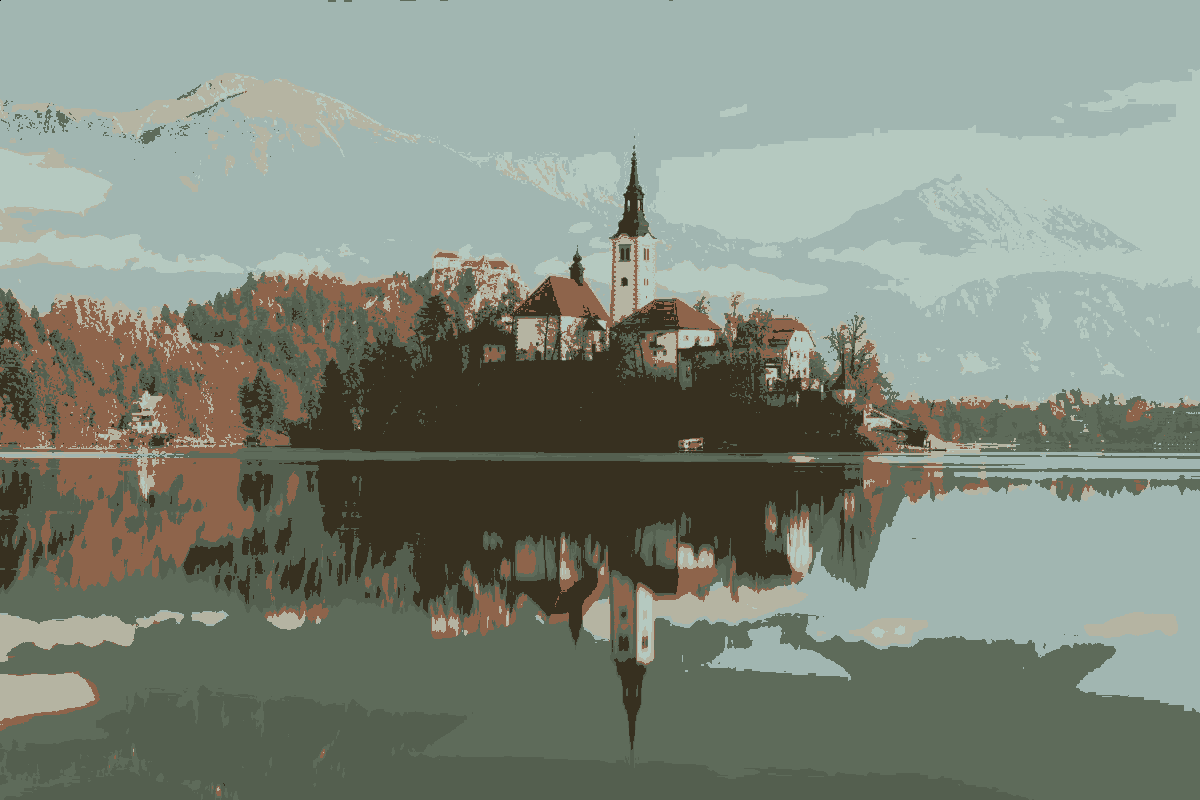
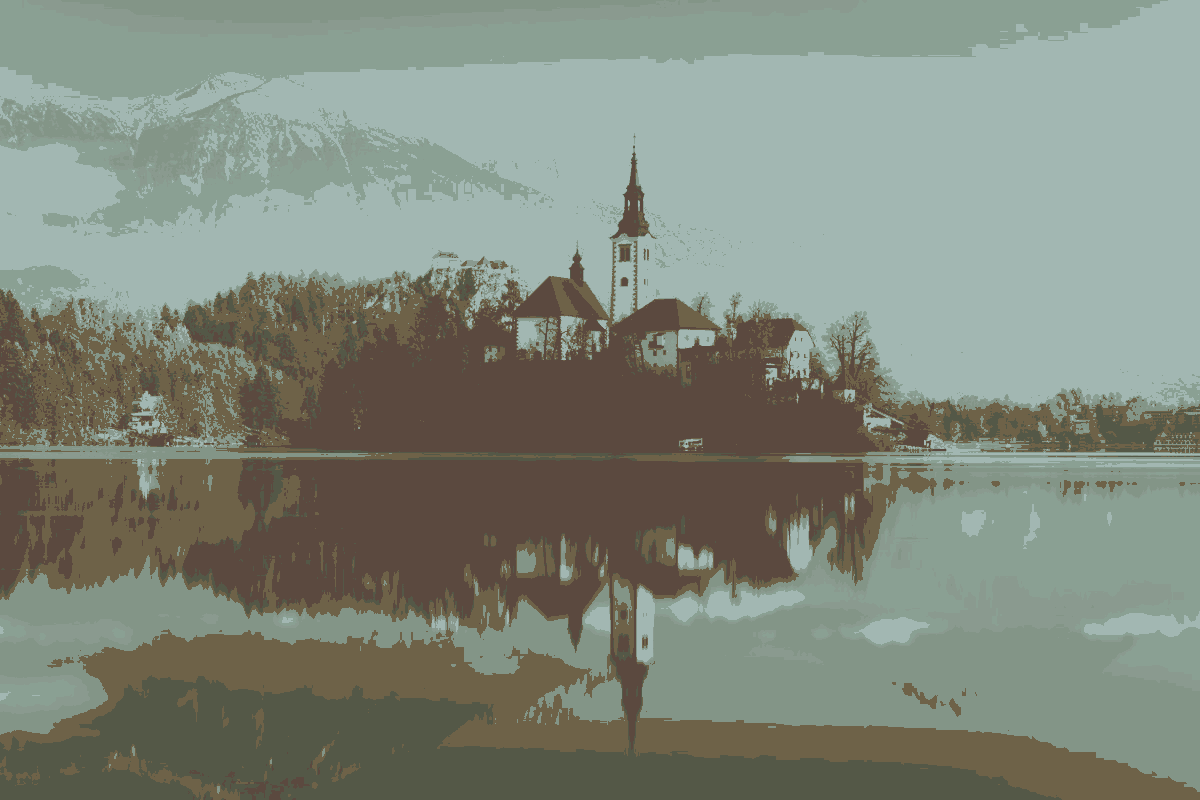
Work on textures instead

diff --git a/src/main.rs b/src/main.rs
@@ -1,22 +1,21 @@
 use std::{mem::size_of, vec};
 
 use anyhow::Result;
-use image::{ImageBuffer, Rgb};
+use image::{ImageBuffer, Rgba};
 use pollster::FutureExt;
 use rand::Rng;
 use wgpu::{
-    util::DeviceExt, BindGroupDescriptor, BindGroupEntry, BufferAddress, BufferDescriptor,
-    BufferUsages,
+    util::DeviceExt, BindGroupDescriptor, BindGroupEntry, BindingResource, BufferAddress,
+    BufferDescriptor, BufferUsages, TextureViewDescriptor,
 };
 
 fn main() -> Result<()> {
-    let image = image::load_from_memory(include_bytes!("landscape_small.jpg"))?.to_rgb8();
+    let image = image::load_from_memory(include_bytes!("landscape_small.jpg"))?.to_rgba8();
 
     let (width, height) = image.dimensions();
 
     let k = 7;
 
-    let pixels = pixels(&image);
     let centroids = init_centroids(&image, k);
 
     println!("Setting up compute");
@@ -34,29 +33,53 @@ fn main() -> Result<()> {
         .request_device(&Default::default(), None)
         .block_on()?;
 
-    let pixel_buffer = device.create_buffer_init(&wgpu::util::BufferInitDescriptor {
-        label: None,
-        contents: bytemuck::cast_slice(&pixels),
-        usage: BufferUsages::STORAGE | BufferUsages::COPY_DST,
+    let texture_size = wgpu::Extent3d {
+        width,
+        height,
+        depth_or_array_layers: 1,
+    };
+
+    let input_texture = device.create_texture(&wgpu::TextureDescriptor {
+        label: Some("input texture"),
+        size: texture_size,
+        mip_level_count: 1,
+        sample_count: 1,
+        dimension: wgpu::TextureDimension::D2,
+        format: wgpu::TextureFormat::Rgba8Unorm,
+        usage: wgpu::TextureUsages::TEXTURE_BINDING | wgpu::TextureUsages::COPY_DST,
     });
+    queue.write_texture(
+        input_texture.as_image_copy(),
+        bytemuck::cast_slice(image.as_raw()),
+        wgpu::ImageDataLayout {
+            offset: 0,
+            bytes_per_row: std::num::NonZeroU32::new(4 * width),
+            rows_per_image: None, // Doesn't need to be specified as we are writing a single image.
+        },
+        texture_size,
+    );
+
+    let output_texture = device.create_texture(&wgpu::TextureDescriptor {
+        label: Some("output texture"),
+        size: texture_size,
+        mip_level_count: 1,
+        sample_count: 1,
+        dimension: wgpu::TextureDimension::D2,
+        format: wgpu::TextureFormat::Rgba8Unorm,
+        usage: wgpu::TextureUsages::COPY_SRC | wgpu::TextureUsages::STORAGE_BINDING,
+    });
+
     let centroid_buffer = device.create_buffer_init(&wgpu::util::BufferInitDescriptor {
         label: None,
-        contents: bytemuck::cast_slice(&centroids),
+        contents: &centroids,
         usage: BufferUsages::STORAGE | BufferUsages::COPY_SRC | BufferUsages::COPY_DST,
     });
 
-    let size = (size_of::<u32>() * pixels.len()) as BufferAddress;
+    let size = (size_of::<u32>() * width as usize * height as usize) as BufferAddress;
     let calculated_buffer = device.create_buffer(&BufferDescriptor {
         label: None,
         size,
         usage: BufferUsages::STORAGE | BufferUsages::COPY_SRC,
-        mapped_at_creation: false,
-    });
-
-    let staging_buffer = device.create_buffer(&wgpu::BufferDescriptor {
-        label: None,
-        size,
-        usage: wgpu::BufferUsages::MAP_READ | wgpu::BufferUsages::COPY_DST,
         mapped_at_creation: false,
     });
 
@@ -72,18 +95,18 @@ fn main() -> Result<()> {
         entry_point: "main",
     });
 
-    let choose_centroid_shader = device.create_shader_module(&wgpu::ShaderModuleDescriptor {
-        label: Some("Find centroid shader"),
-        source: wgpu::ShaderSource::Wgsl(include_str!("shaders/choose_centroid.wgsl").into()),
-    });
+    // let choose_centroid_shader = device.create_shader_module(&wgpu::ShaderModuleDescriptor {
+    //     label: Some("Find centroid shader"),
+    //     source: wgpu::ShaderSource::Wgsl(include_str!("shaders/choose_centroid.wgsl").into()),
+    // });
 
-    let choose_centroid_pipeline =
-        device.create_compute_pipeline(&wgpu::ComputePipelineDescriptor {
-            label: Some("Find centroid pipeline"),
-            layout: None,
-            module: &choose_centroid_shader,
-            entry_point: "main",
-        });
+    // let choose_centroid_pipeline =
+    //     device.create_compute_pipeline(&wgpu::ComputePipelineDescriptor {
+    //         label: Some("Find centroid pipeline"),
+    //         layout: None,
+    //         module: &choose_centroid_shader,
+    //         entry_point: "main",
+    //     });
 
     let find_centroid_bind_group = device.create_bind_group(&BindGroupDescriptor {
         label: None,
@@ -91,11 +114,13 @@ fn main() -> Result<()> {
         entries: &[
             BindGroupEntry {
                 binding: 0,
-                resource: centroid_buffer.as_entire_binding(),
+                resource: BindingResource::TextureView(
+                    &input_texture.create_view(&TextureViewDescriptor::default()),
+                ),
             },
             BindGroupEntry {
                 binding: 1,
-                resource: pixel_buffer.as_entire_binding(),
+                resource: centroid_buffer.as_entire_binding(),
             },
             BindGroupEntry {
                 binding: 2,
@@ -104,24 +129,24 @@ fn main() -> Result<()> {
         ],
     });
 
-    let choose_centroid_bind_group = device.create_bind_group(&BindGroupDescriptor {
-        label: None,
-        layout: &choose_centroid_pipeline.get_bind_group_layout(0),
-        entries: &[
-            BindGroupEntry {
-                binding: 0,
-                resource: centroid_buffer.as_entire_binding(),
-            },
-            BindGroupEntry {
-                binding: 1,
-                resource: pixel_buffer.as_entire_binding(),
-            },
-            BindGroupEntry {
-                binding: 2,
-                resource: calculated_buffer.as_entire_binding(),
-            },
-        ],
-    });
+    // let choose_centroid_bind_group = device.create_bind_group(&BindGroupDescriptor {
+    //     label: None,
+    //     layout: &choose_centroid_pipeline.get_bind_group_layout(0),
+    //     entries: &[
+    //         BindGroupEntry {
+    //             binding: 0,
+    //             resource: centroid_buffer.as_entire_binding(),
+    //         },
+    //         BindGroupEntry {
+    //             binding: 1,
+    //             resource: pixel_buffer.as_entire_binding(),
+    //         },
+    //         BindGroupEntry {
+    //             binding: 2,
+    //             resource: calculated_buffer.as_entire_binding(),
+    //         },
+    //     ],
+    // });
 
     let swap_shader = device.create_shader_module(&wgpu::ShaderModuleDescriptor {
         label: Some("Swap colors shader"),
@@ -147,32 +172,27 @@ fn main() -> Result<()> {
                 binding: 1,
                 resource: calculated_buffer.as_entire_binding(),
             },
+            BindGroupEntry {
+                binding: 2,
+                resource: BindingResource::TextureView(
+                    &output_texture.create_view(&TextureViewDescriptor::default()),
+                ),
+            },
         ],
     });
 
     let mut encoder =
         device.create_command_encoder(&wgpu::CommandEncoderDescriptor { label: None });
 
-    let find_centroid_dispatch_with = compute_work_group_count(pixels[0], 256);
+    let (dispatch_with, dispatch_height) =
+        compute_work_group_count((texture_size.width, texture_size.height), (16, 16));
     {
-        let find_centroid_dispatch_with = compute_work_group_count(pixels[0], 256);
-        let choose_centroid_dispatch_with = compute_work_group_count(k, 16);
         let mut compute_pass = encoder.begin_compute_pass(&wgpu::ComputePassDescriptor {
             label: Some("Kmean pass"),
         });
-        // for _ in 0..1 {
         compute_pass.set_pipeline(&find_centroid_pipeline);
         compute_pass.set_bind_group(0, &find_centroid_bind_group, &[]);
-        compute_pass.dispatch(find_centroid_dispatch_with, 1, 1);
-
-        // compute_pass.set_pipeline(&choose_centroid_pipeline);
-        // compute_pass.set_bind_group(0, &choose_centroid_bind_group, &[]);
-        // compute_pass.dispatch(choose_centroid_dispatch_with, 1, 1);
-        // }
-
-        // compute_pass.set_pipeline(&swap_pipeline);
-        // compute_pass.set_bind_group(0, &swap_bind_group, &[]);
-        // compute_pass.dispatch(find_centroid_dispatch_with, 1, 1);
+        compute_pass.dispatch(dispatch_with, dispatch_height, 1);
     }
     {
         let mut compute_pass = encoder.begin_compute_pass(&wgpu::ComputePassDescriptor {
@@ -180,35 +200,60 @@ fn main() -> Result<()> {
         });
         compute_pass.set_pipeline(&swap_pipeline);
         compute_pass.set_bind_group(0, &swap_bind_group, &[]);
-        compute_pass.dispatch(find_centroid_dispatch_with, 1, 1);
+        compute_pass.dispatch(dispatch_with, dispatch_height, 1);
     }
 
-    encoder.copy_buffer_to_buffer(&calculated_buffer, 0, &staging_buffer, 0, size);
+    let padded_bytes_per_row = padded_bytes_per_row(width);
+    let unpadded_bytes_per_row = width as usize * 4;
+
+    let output_buffer_size =
+        padded_bytes_per_row as u64 * height as u64 * std::mem::size_of::<u8>() as u64;
+    let output_buffer = device.create_buffer(&wgpu::BufferDescriptor {
+        label: None,
+        size: output_buffer_size,
+        usage: wgpu::BufferUsages::COPY_DST | wgpu::BufferUsages::MAP_READ,
+        mapped_at_creation: false,
+    });
+
+    encoder.copy_texture_to_buffer(
+        wgpu::ImageCopyTexture {
+            aspect: wgpu::TextureAspect::All,
+            texture: &output_texture,
+            mip_level: 0,
+            origin: wgpu::Origin3d::ZERO,
+        },
+        wgpu::ImageCopyBuffer {
+            buffer: &output_buffer,
+            layout: wgpu::ImageDataLayout {
+                offset: 0,
+                bytes_per_row: std::num::NonZeroU32::new(padded_bytes_per_row as u32),
+                rows_per_image: std::num::NonZeroU32::new(height),
+            },
+        },
+        texture_size,
+    );
 
     queue.submit(Some(encoder.finish()));
 
-    let buffer_slice = staging_buffer.slice(..);
+    let buffer_slice = output_buffer.slice(..);
     let buffer_future = buffer_slice.map_async(wgpu::MapMode::Read);
 
     device.poll(wgpu::Maintain::Wait);
 
     if let Ok(()) = buffer_future.block_on() {
         println!("We mapped the data back");
-        let data = buffer_slice.get_mapped_range();
-        let result: Vec<u32> = bytemuck::cast_slice(&data).to_vec();
-        let out_pixels: Vec<u8> = result
-            .into_iter()
-            .flat_map(|color| {
-                [
-                    (color >> 16) as u8 & 0xff,
-                    (color >> 8) as u8 & 0xff,
-                    (color >> 0) as u8 & 0xff,
-                ]
-            })
-            .collect();
+        let padded_data = buffer_slice.get_mapped_range();
+
+        let mut pixels: Vec<u8> = vec![0; unpadded_bytes_per_row * height as usize];
+        for (padded, pixels) in padded_data
+            .chunks_exact(padded_bytes_per_row)
+            .zip(pixels.chunks_exact_mut(unpadded_bytes_per_row))
+        {
+            pixels.copy_from_slice(&padded[..unpadded_bytes_per_row]);
+        }
 
         if let Some(output_image) =
-            image::ImageBuffer::<image::Rgb<u8>, _>::from_raw(width, height, &out_pixels[..])
+            image::ImageBuffer::<image::Rgba<u8>, _>::from_raw(width, height, &pixels[..])
         {
             output_image.save("kmean.png")?;
         }
@@ -217,41 +262,43 @@ fn main() -> Result<()> {
     Ok(())
 }
 
-fn pixels(image: &ImageBuffer<Rgb<u8>, Vec<u8>>) -> Vec<u32> {
-    let (width, height) = image.dimensions();
-    let mut pixels = vec![0; 1 + (width * height) as usize];
-    pixels[0] = width * height;
+fn init_centroids(image: &ImageBuffer<Rgba<u8>, Vec<u8>>, k: u32) -> Vec<u8> {
+    let mut centroids: Vec<u8> = vec![];
+    centroids.extend_from_slice(bytemuck::cast_slice(&[k]));
 
-    let packed: Vec<u32> = image
-        .pixels()
-        .map(|Rgb(pixel)| (pixel[0] as u32) << 16 | (pixel[1] as u32) << 8 | pixel[2] as u32)
-        .collect();
-
-    pixels[1..].copy_from_slice(&packed);
-
-    packed
-}
-
-fn init_centroids(image: &ImageBuffer<Rgb<u8>, Vec<u8>>, k: u32) -> Vec<u32> {
     let mut rng = rand::thread_rng();
 
     let (width, height) = image.dimensions();
     let total_px = width * height;
-    let mut centroids = vec![0; 1 + k as usize];
-    centroids[0] = k;
-    for index in 1..=k {
+    for _ in 0..k {
         let color_index = rng.gen_range(0..total_px);
         let x = color_index % width;
         let y = color_index / width;
-        let Rgb(pixel) = image.get_pixel(x, y);
-        centroids[index as usize] =
-            (pixel[0] as u32) << 16 | (pixel[1] as u32) << 8 | pixel[2] as u32;
+        let Rgba(pixel) = image.get_pixel(x, y);
+        centroids.extend_from_slice(bytemuck::cast_slice(&[
+            pixel[0] as f32 / 255.0,
+            pixel[1] as f32 / 255.0,
+            pixel[2] as f32 / 255.0,
+            pixel[3] as f32 / 255.0,
+        ]));
     }
 
     centroids
 }
 
-fn compute_work_group_count(width: u32, workgroup_width: u32) -> u32 {
+fn compute_work_group_count(
+    (width, height): (u32, u32),
+    (workgroup_width, workgroup_height): (u32, u32),
+) -> (u32, u32) {
     let x = (width + workgroup_width - 1) / workgroup_width;
-    x
+    let y = (height + workgroup_height - 1) / workgroup_height;
+
+    (x, y)
+}
+
+/// Compute the next multiple of 256 for texture retrieval padding.
+fn padded_bytes_per_row(width: u32) -> usize {
+    let bytes_per_row = width as usize * 4;
+    let padding = (256 - bytes_per_row % 256) % 256;
+    bytes_per_row + padding
 }
